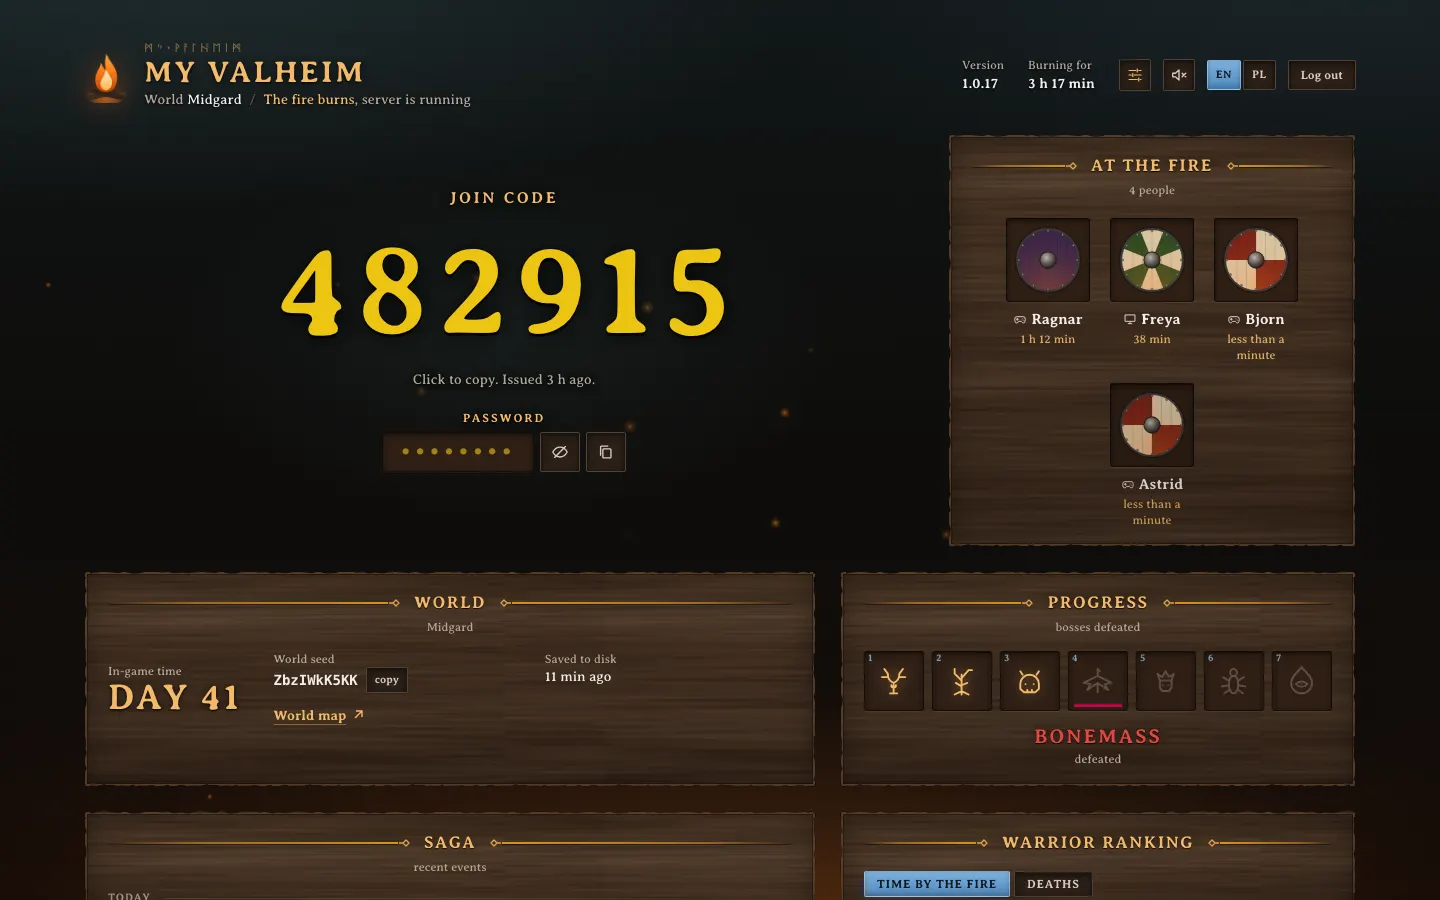
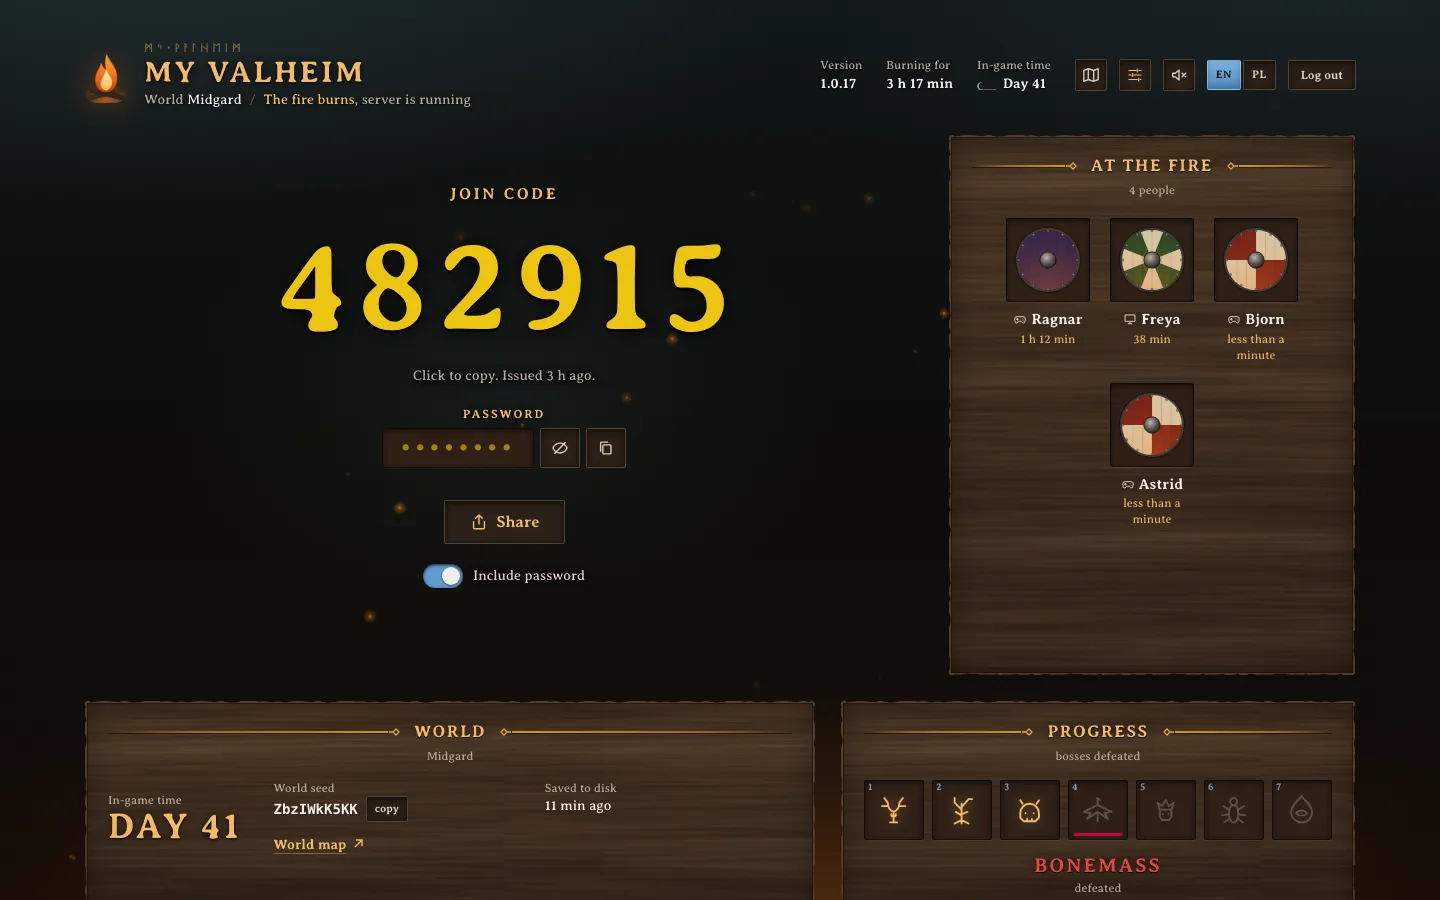
docs: phone layout, share and map clusters; refreshed dashboard and map screenshots

diff --git a/README.md b/README.md
@@ -10,7 +10,7 @@
 [![CI](https://github.com/krystianslowik/skald/actions/workflows/ci.yaml/badge.svg)](https://github.com/krystianslowik/skald/actions/workflows/ci.yaml)
 [![Release](https://img.shields.io/github/v/release/krystianslowik/skald?include_prereleases&color=ffb347)](https://github.com/krystianslowik/skald/releases)
 
-<img src="docs/images/dashboard.webp" alt="The Skald dashboard: a burning six-digit join code, four players at the fire as painted shields with platform marks, the world day and the boss path with three bosses down" width="100%" />
+<img src="docs/images/dashboard.webp" alt="The Skald dashboard: a burning six-digit join code with a Share button, four players at the fire as painted shields with platform marks, the world day and the boss path with three bosses down" width="100%" />
 
 </div>
 
@@ -18,7 +18,7 @@ Running a Valheim server for friends means someone asks "what's the code again?"
 every evening, and nobody knows if last night's backup happened. Skald sits next
 to the server and puts it all on one password-protected page:
 
-- the 6-digit crossplay join code, one click to copy
+- the 6-digit crossplay join code, one tap to copy or share (with the password, if you like)
 - who is online, who played when, and how often they died
 - the world: in-game day and time of day, seed, last save
 - a world map drawn from the save: explored land, bases, portals and where they lead, graves, beds, ships, map pins, and the bosses and dungeons someone has found
@@ -30,7 +30,8 @@ to the server and puts it all on one password-protected page:
 
 It works with the [community Valheim server image](https://github.com/community-valheim-tools/valheim-server-docker)
 with crossplay on, so Xbox, PlayStation, Switch and PC players join without port
-forwarding. The UI is in English and Polish. It installs as a PWA, and there's an
+forwarding. The UI is in English and Polish. On a phone it becomes an app with
+a tab bar (fire, map, saga, settings) and installs as a PWA, and there's an
 optional campfire crackle if you want it.
 
 <table>
@@ -42,14 +43,16 @@ optional campfire crackle if you want it.
 
 ## World map
 
-<img src="docs/images/map.webp" alt="The world map: an inked archipelago on parchment, fog over the unexplored, bases, paired portals with a dashed line between them, graves and places found, a layer panel with counts and a popover for an unconnected portal" width="100%" />
+<img src="docs/images/map.webp" alt="The world map: an inked archipelago on parchment, fog over the unexplored, bases, paired portals with a dashed line between them, graves and places found, crowded spots gathered into counted clusters, a layer panel with counts and a popover for an unconnected portal" width="100%" />
 
 The map is drawn from the world save itself: the land, sea and coasts the
 world has generated, the area your cartography tables have explored, and
 what people built and left behind. Each layer can be switched off, the search
 finds portal tags, names and places, and every mark links to the same spot
 on [valheim-map.world](https://valheim-map.world/), which also fills the
-Terrain tab. Places nobody has found stay hidden unless you set
+Terrain tab. It opens on the explored area, gathers crowded spots into
+clusters you tap to open, and on a phone takes pinches, double taps (in) and
+two-finger taps (out). Places nobody has found stay hidden unless you set
 `MAP_SPOILERS=true`. Details in [docs/configuration.md](docs/configuration.md#world-map).
 
 ## Server settings

diff --git a/CHANGELOG.md b/CHANGELOG.md
@@ -6,6 +6,42 @@ All notable changes to this project are documented here. The format follows
 
 ## [Unreleased]
 
+### Added
+
+- Phone layout (up to 639 px wide, and landscape phones): a bottom tab bar
+  with Fire, Map, Saga (saga, ranking, who sat by the fire) and Settings
+  (server settings, language, campfire sound, log out, runes, forge,
+  treasury, chronicle). Tabs are URL hashes (`#map`, `#saga`, `#settings`),
+  so Back returns to the fire. Wider screens keep the full dashboard.
+- Share for the join code: the phone's share sheet gets "Join <server> in
+  Valheim: code 123456, password ...", with an "Include password" switch
+  (on by default, remembered per device); where there is no share sheet the
+  same text is copied. The password is fetched only when Share is pressed.
+- A compact bar with the code, copy and share slides down on phones once the
+  join code has scrolled away.
+- Map clusters: crowded marks gather per zoom level into one mark with a
+  count, bases, portals and graves leading pins and places; a tap zooms in
+  until they split, and a pile that never splits (a portal hub) opens as a
+  list. Bases take the name of a home pin next to them.
+- Map on touch screens: double tap zooms in, a two-finger tap zooms out,
+  "go to the main base" and "fit" replace the +/- buttons, mark details open
+  as a bottom sheet that peeks at its content and drags up to full height,
+  and "Go to the other end" selects the portal there. The view is remembered
+  for the browser session.
+
+### Changed
+
+- The map opens on the explored area (or, without a cartography table, on
+  bases, portals and graves; far-flung pins no longer stretch it), clear of
+  its controls, on every screen size.
+- Labels: portal tags, base names and graves show from the first view;
+  labels never leave the screen, and phones get fewer, larger ones.
+- The header on phones is one line of status and one row of facts.
+- Touch screens get 44 pt targets throughout, 16 px fields (no iOS zoom on
+  focus), larger layer switches, and safe-area insets (`viewport-fit=cover`)
+  for notches and the home indicator, in the browser and installed.
+- The theme colour matches the night sky behind the header.
+
 ## [0.5.0] - 2026-10-10
 
 ### Added
